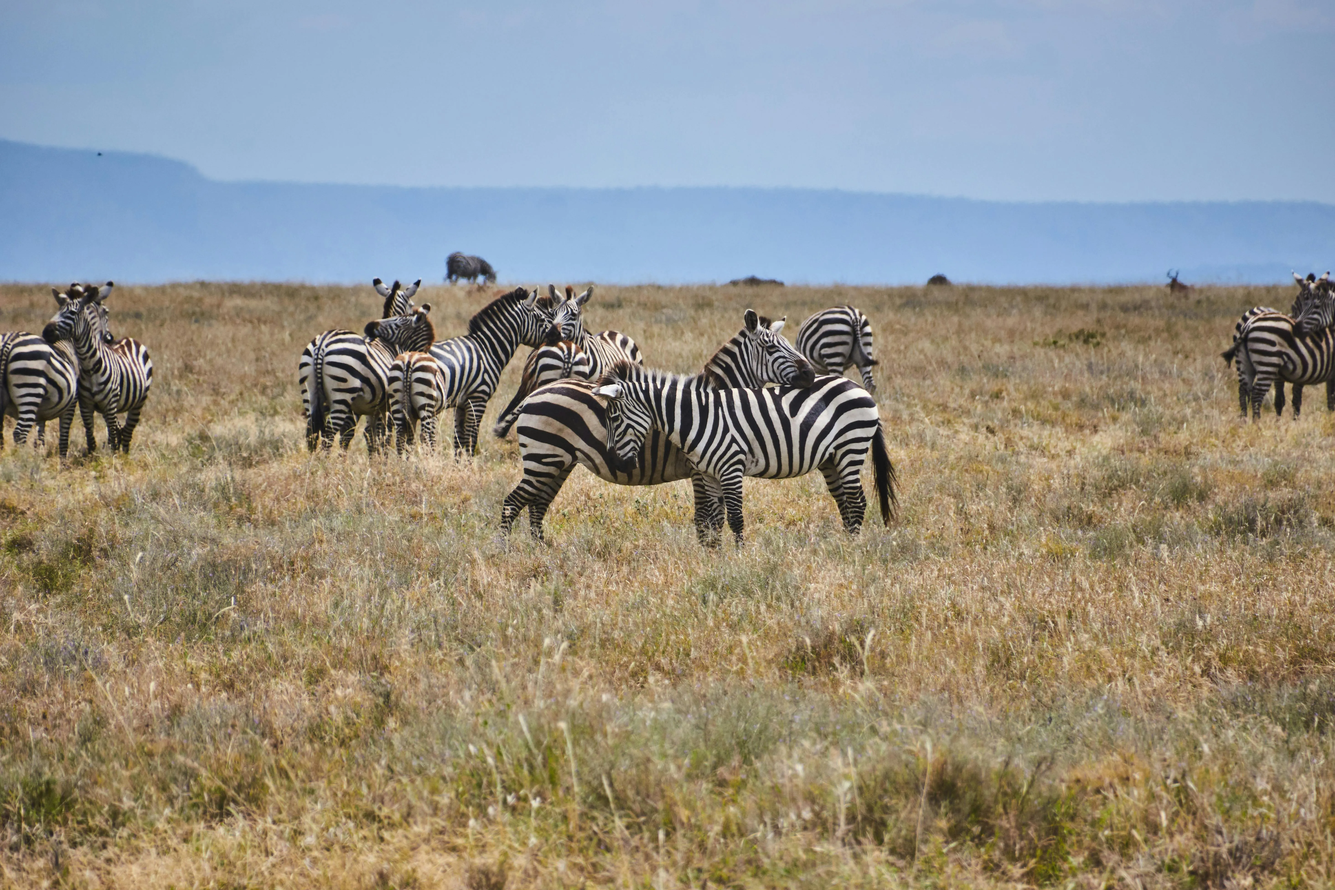
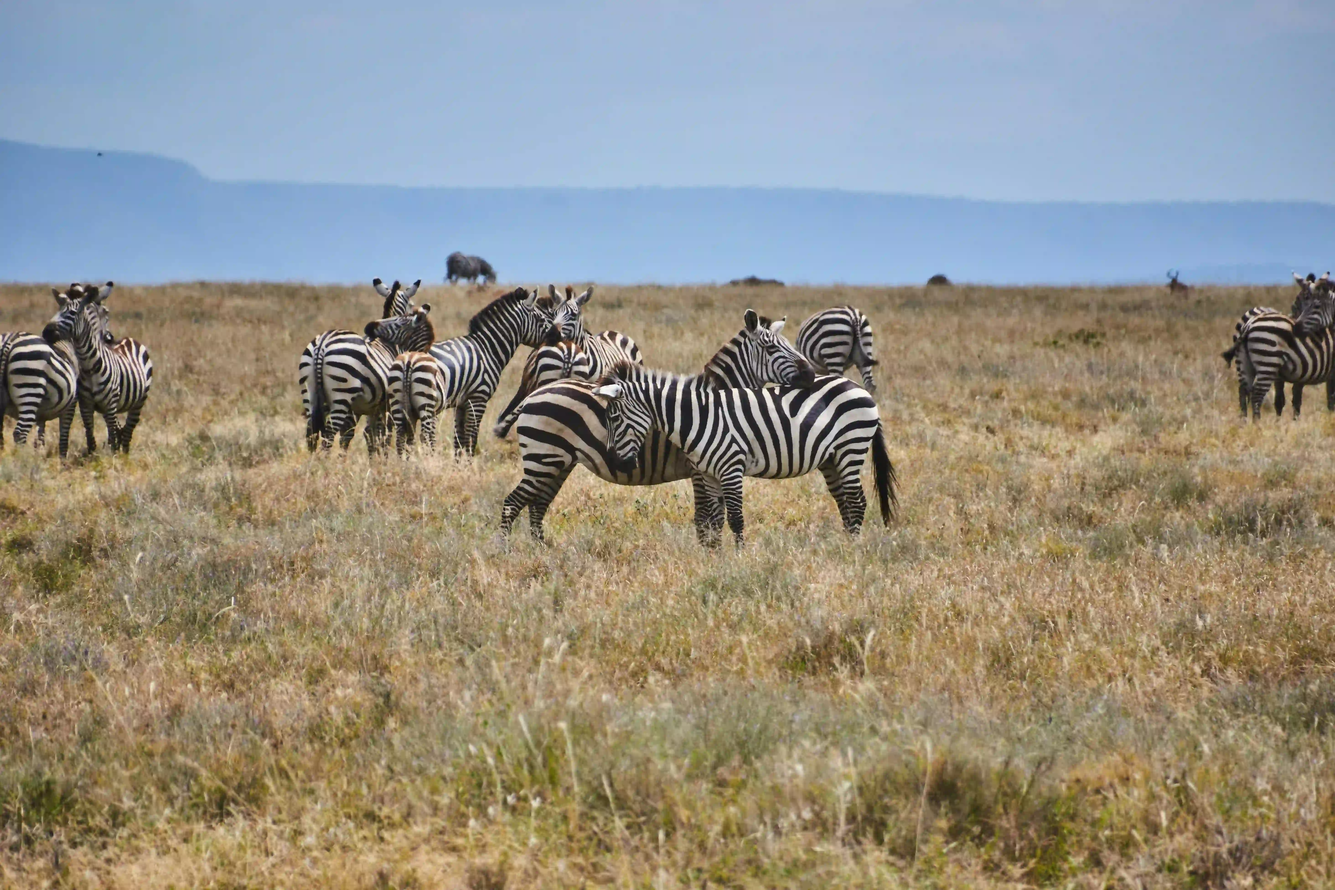
fixed

Changed region(s): [[0.375, 0.5625, 0.5, 0.6562], [0.5312, 0.5938, 0.5625, 0.6562], [0.3125, 0.625, 0.3438, 0.6562]]

diff --git a/place.html b/place.html
@@ -2,8 +2,8 @@
 <html lang="en">
 
 <head>
-    <meta charset="UTF-8"/>
-    <meta name="viewport" content="width=device-width, initial-scale=1.0" />
+    <meta charset="UTF-8">
+    <meta name="viewport" content="width=device-width, initial-scale=1.0" >
     <title>Kenya</title>
     <meta name="author" content="Roosvelth Vazquez">
     <meta name="description" content="WDD 131 – Dynamic Web Fundamentals. Here I going to show how to use responsive images
@@ -23,7 +23,7 @@
     <main>
         <div class="hero">
             <picture>
-                <source srcset="images/cebraswebp2.webp" media="(min-width: 768px)">
+                <source srcset="images/cebrasweb2.webp" media="(min-width: 768px)">
                 <img src="images/cebrawebp.webp" alt="Lemurs in Madagascar">
             </picture>
 
